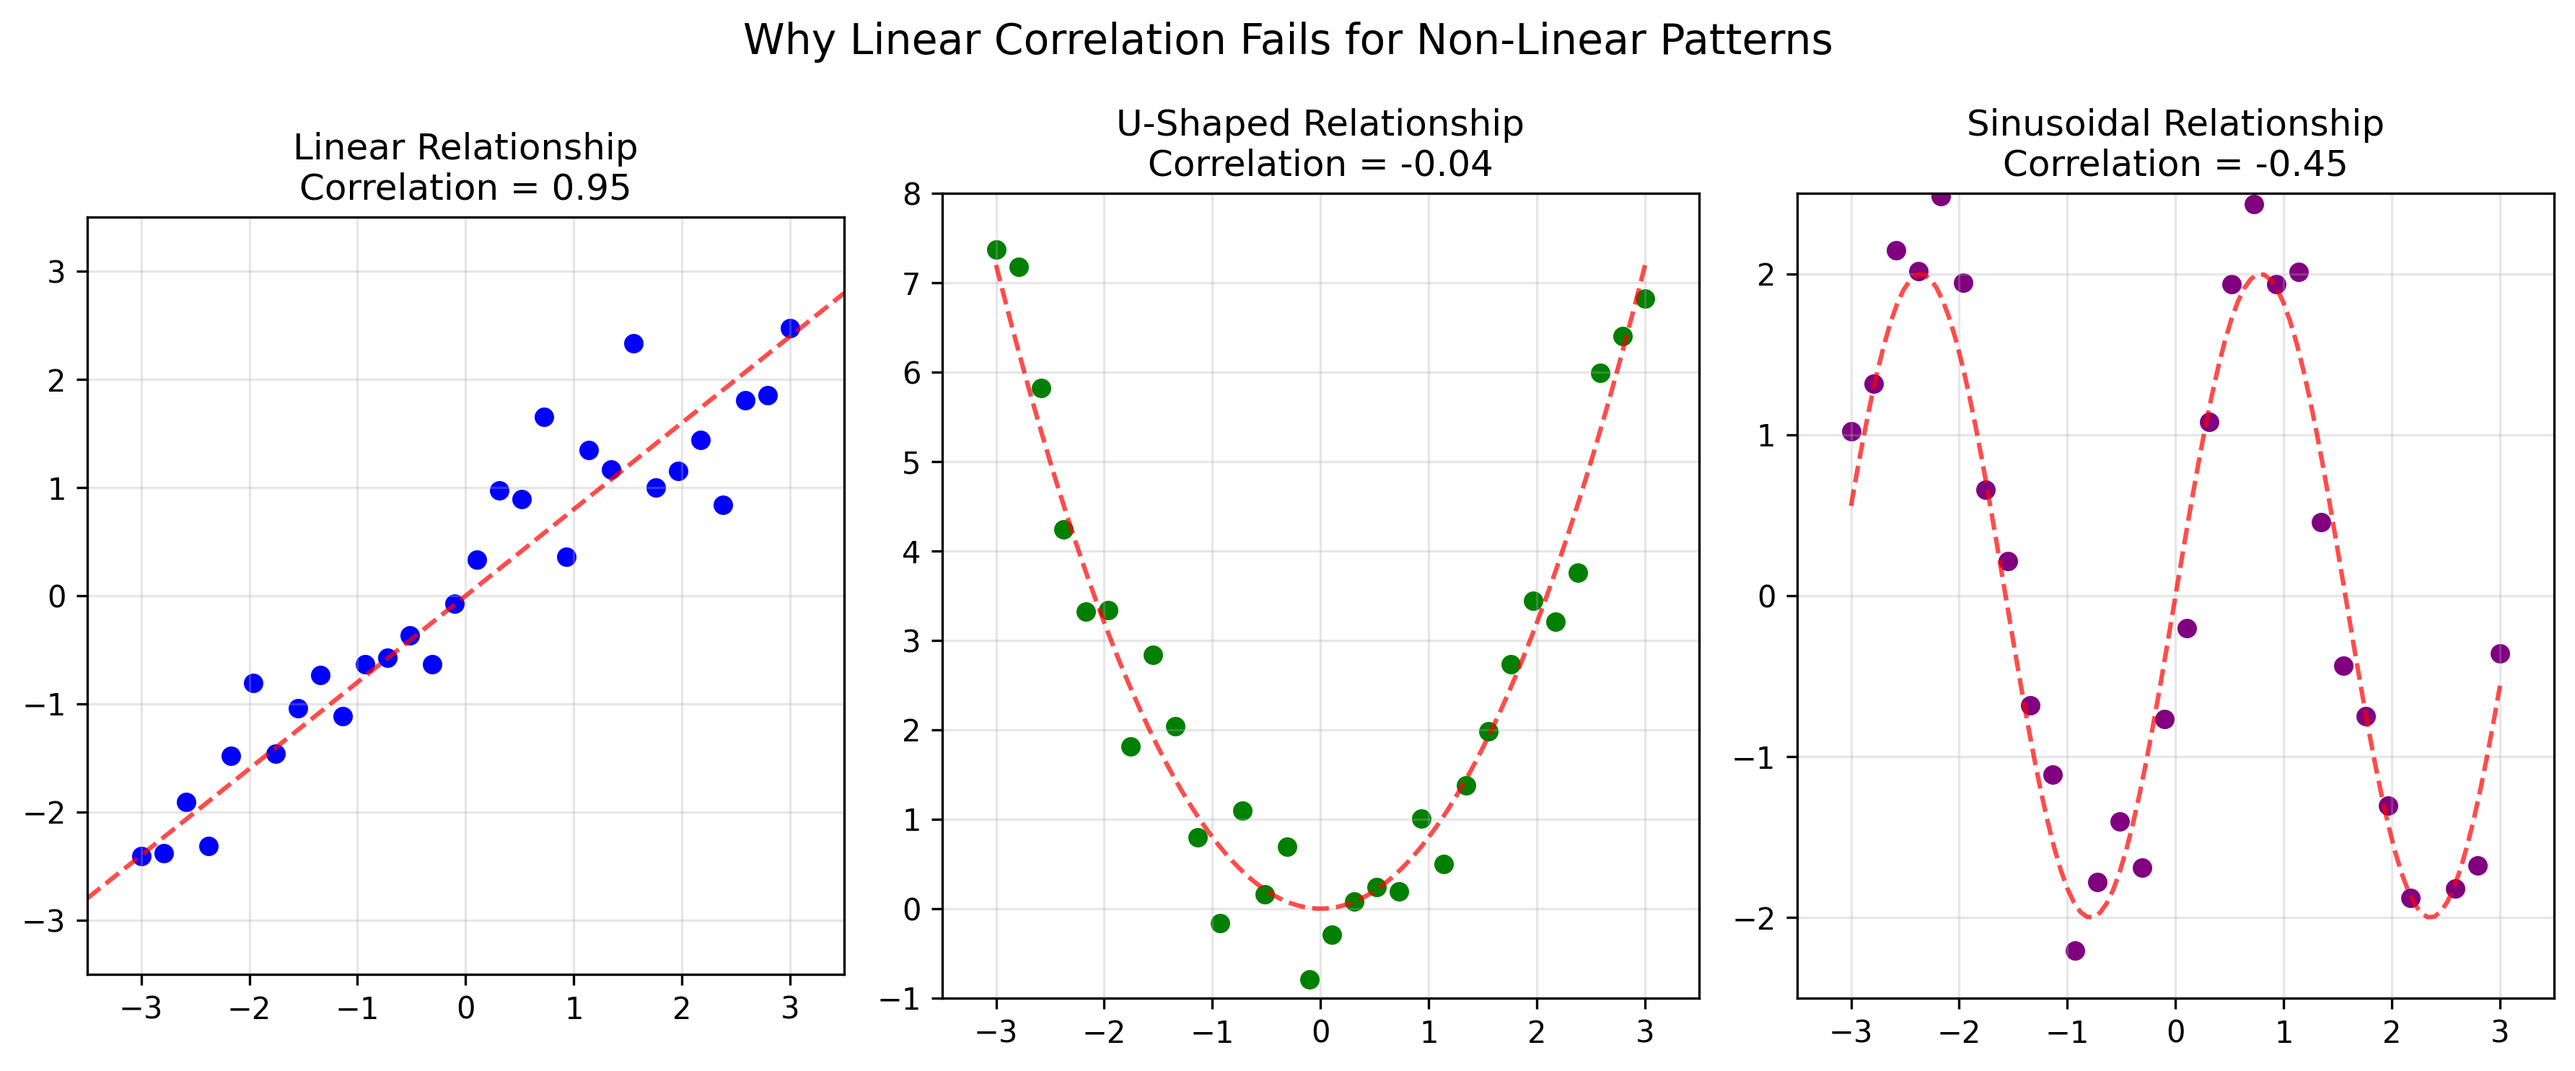
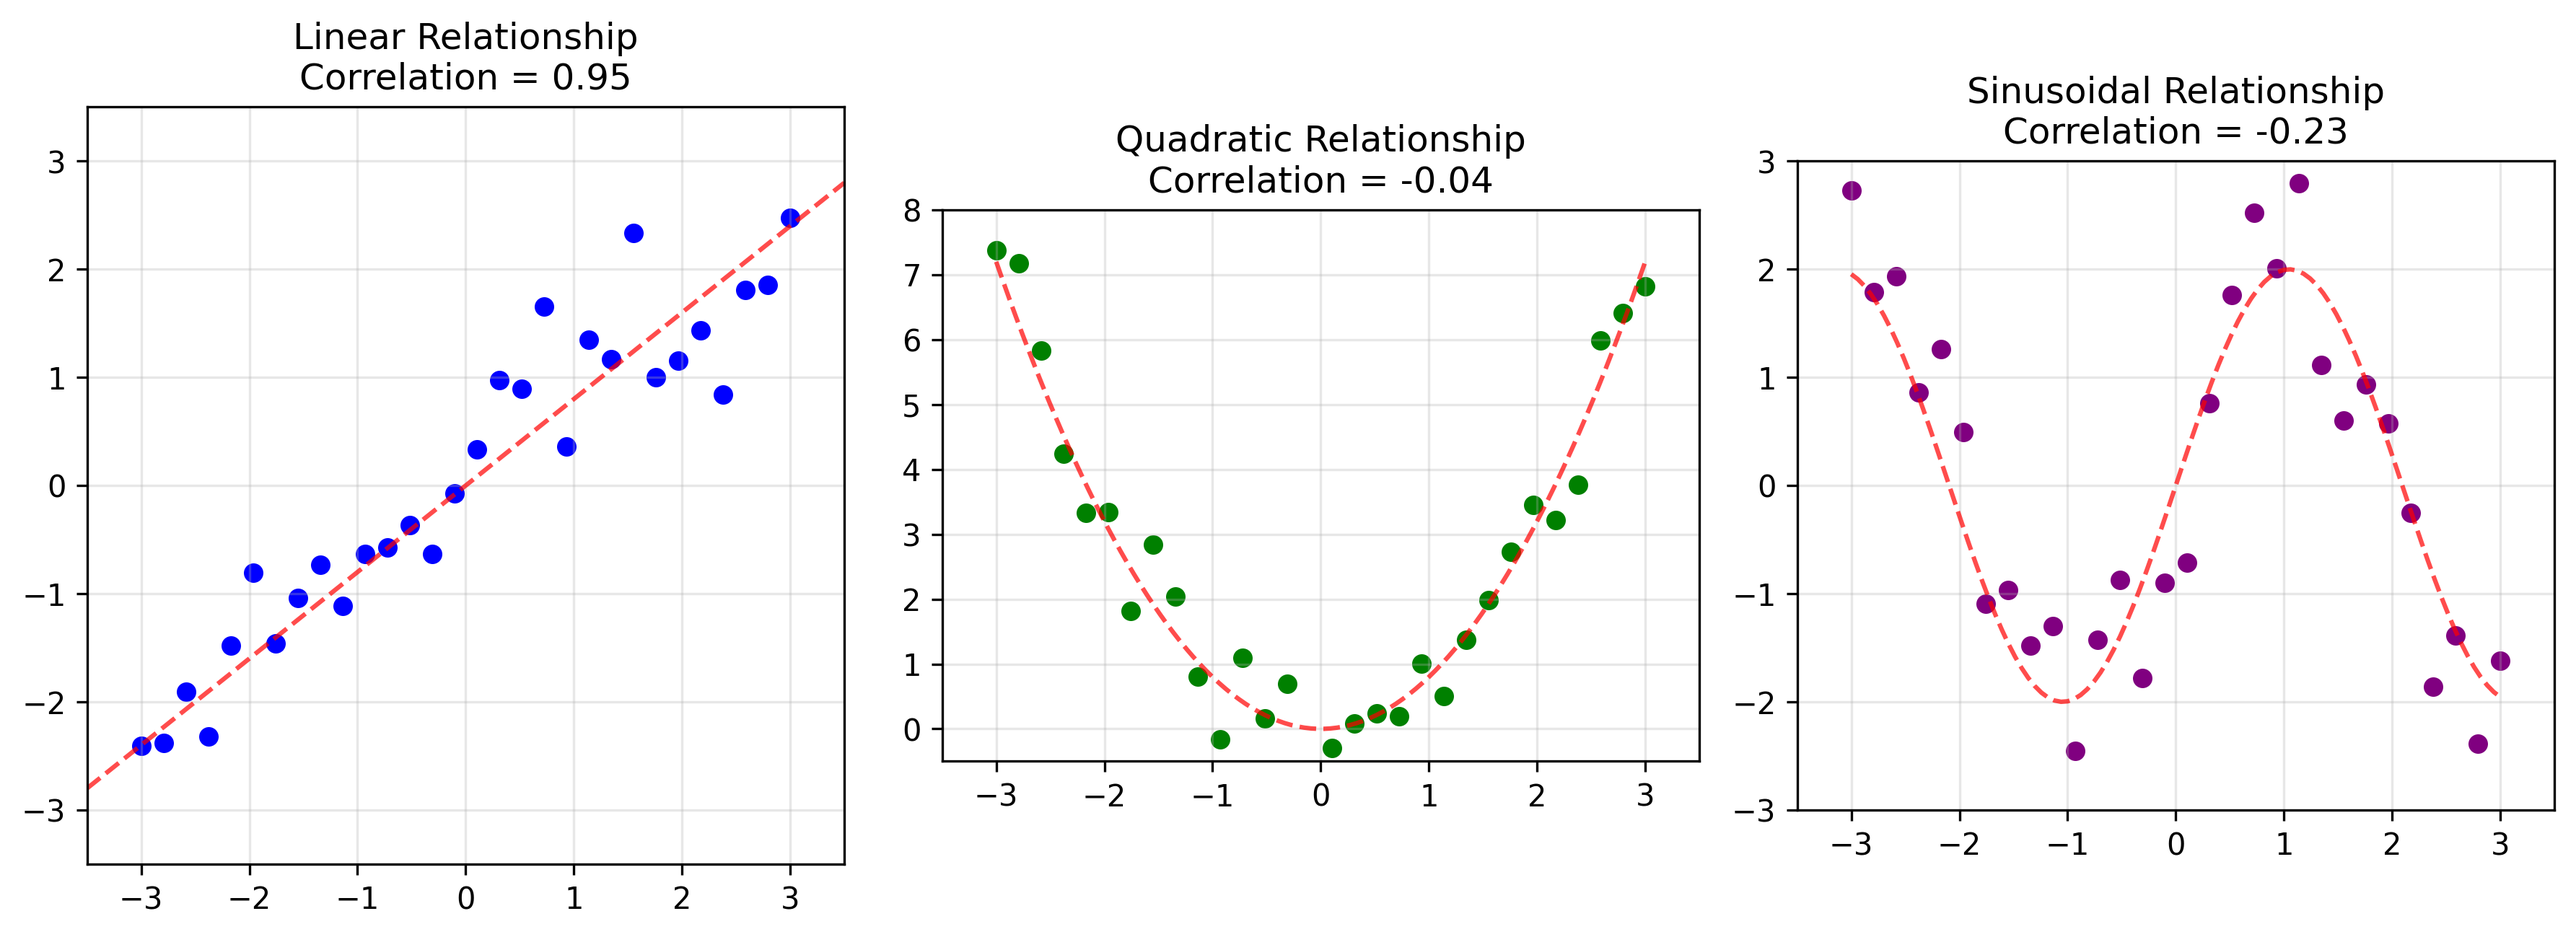
fix

diff --git a/ML_Obsidian_Vault/Lectures/2/Codes/L2_1_CMC_example_8_emoji_covariance.py b/ML_Obsidian_Vault/Lectures/2/Codes/L2_1_CMC_example_8_emoji_covariance.py
@@ -20,8 +20,8 @@ def emoji_covariance_example():
     
     print("\nStep 1: Creating Visual Metaphors for Correlation Patterns")
     print("We will use emoji-like faces to represent different correlation patterns:")
-    print("- Smiley face for positive correlation: variables tend to increase or decrease together")
-    print("- Sad face for negative correlation: as one variable increases, the other decreases")
+    print("- Smiley face for quadratic relationship with points following a smile curve")
+    print("- Sad face for quadratic relationship with points following a frown curve")
     
     # Create figure with two side-by-side plots
     fig, (ax1, ax2) = plt.subplots(1, 2, figsize=(15, 7))
@@ -30,12 +30,12 @@ def emoji_covariance_example():
     np.random.seed(42) # for reproducibility of noise
     noise_level = 0.2 # Adjust noise level for scatter
 
-    print("\nStep 2: Drawing the Positive Correlation (Smiley Face) Example")
-    print("Key Concepts Illustrated for Positive Correlation:")
-    print("- Variables tend to increase or decrease together")
+    print("\nStep 2: Drawing the Smiley Face Pattern Example")
+    print("Key Concepts Illustrated for the Smiley Face Pattern:")
+    print("- Points follow a U-shaped pattern (quadratic relationship)")
     print("- Data points visually follow the smiling curve")
-    print("- The covariance ellipse reflects the overall trend")
-    print("- Common in naturally related quantities (height-weight, study time-grades)")
+    print("- The covariance ellipse reflects the overall spread of data")
+    print("- This pattern has very low linear correlation because it's not a linear relationship")
     
     # Create a smiley face for the positive correlation that matches the data pattern
     theta = np.linspace(0, 2*np.pi, 100)
@@ -71,7 +71,7 @@ def emoji_covariance_example():
     corr_pos = np.corrcoef(rv_pos, rowvar=False)[0, 1]
 
     # Print detailed calculation steps for positive correlation based on generated data
-    print("\nDetailed Calculation for Positive Correlation (from generated data):")
+    print("\nDetailed Calculation for Smiley Face Pattern (from generated data):")
     print(f"Mean vector = {mean_pos}")
     print(f"Covariance Matrix = \n{cov_pos}")
     print(f"Variance of X = {cov_pos[0, 0]}")
@@ -90,7 +90,7 @@ def emoji_covariance_example():
     eigenvalues_pos, eigenvectors_pos = np.linalg.eig(cov_pos)
     
     # Print eigenvalue decomposition details
-    print("\nEigenvalue Decomposition (Positive Correlation - from data):")
+    print("\nEigenvalue Decomposition (Smiley Face Pattern - from data):")
     print(f"Eigenvalues = {eigenvalues_pos}")
     print(f"Eigenvectors = \n{eigenvectors_pos}")
     print("Interpretation: The principal axes of the data's spread")
@@ -114,7 +114,7 @@ def emoji_covariance_example():
     ax1.add_patch(ell_pos)
     
     # Set title and labels
-    ax1.set_title(f'Positive Correlation: Happy Data! 😊\nPoints follow smile (Calculated ρ = {corr_pos:.2f})')
+    ax1.set_title(f'Smiley Face Pattern\nCorrelation = {corr_pos:.2f} (Near Zero!)')
     ax1.set_xlim(-4, 4)
     ax1.set_ylim(-4, 4)
     ax1.set_aspect('equal')
@@ -122,12 +122,12 @@ def emoji_covariance_example():
     ax1.set_xlabel('x')
     ax1.set_ylabel('y')
     
-    print("\nStep 3: Drawing the Negative Correlation (Sad Face) Example")
-    print("Key Concepts Illustrated for Negative Correlation:")
-    print("- As one variable increases, the other tends to decrease")
+    print("\nStep 3: Drawing the Frowny Face Pattern Example")
+    print("Key Concepts Illustrated for the Frowny Face Pattern:")
+    print("- Points follow an inverted U-shaped pattern (quadratic relationship)")
     print("- Data points visually follow the frowning curve")
-    print("- The covariance ellipse reflects the overall trend")
-    print("- Common in trade-off relationships (speed-accuracy, price-demand)")
+    print("- The covariance ellipse reflects the overall spread of data")
+    print("- This pattern has almost zero linear correlation despite the clear pattern")
     
     # Sad mouth curve (inverted parabola-like)
     sad_mouth_x_range = np.linspace(-2, 2, 50)
@@ -150,7 +150,7 @@ def emoji_covariance_example():
     corr_neg = np.corrcoef(rv_neg, rowvar=False)[0, 1]
 
     # Print detailed calculation steps for negative correlation based on generated data
-    print("\nDetailed Calculation for Negative Correlation (from generated data):")
+    print("\nDetailed Calculation for Frowny Face Pattern (from generated data):")
     print(f"Mean vector = {mean_neg}")
     print(f"Covariance Matrix = \n{cov_neg}")
     print(f"Variance of X = {cov_neg[0, 0]}")
@@ -169,7 +169,7 @@ def emoji_covariance_example():
     eigenvalues_neg, eigenvectors_neg = np.linalg.eig(cov_neg)
     
     # Print eigenvalue decomposition details
-    print("\nEigenvalue Decomposition (Negative Correlation - from data):")
+    print("\nEigenvalue Decomposition (Frowny Face Pattern - from data):")
     print(f"Eigenvalues = {eigenvalues_neg}")
     print(f"Eigenvectors = \n{eigenvectors_neg}")
     print("Interpretation: The principal axes of the data's spread")
@@ -192,7 +192,7 @@ def emoji_covariance_example():
     ax2.add_patch(ell_neg)
     
     # Set title and labels
-    ax2.set_title(f'Negative Correlation: Sad Data! 😢\nPoints follow frown (Calculated ρ = {corr_neg:.2f})')
+    ax2.set_title(f'Frowny Face Pattern\nCorrelation = {corr_neg:.2f} (Almost Zero!)')
     ax2.set_xlim(-4, 4)
     ax2.set_ylim(-4, 4)
     ax2.set_aspect('equal')
@@ -204,7 +204,7 @@ def emoji_covariance_example():
     print("The smiley/sad faces provide an intuitive memory aid:")
     print("- Smile curves upward ⌣, data points follow this shape, showing a general trend where y decreases then increases as x changes.")
     print("- Frown curves downward ⌢, data points follow this shape, showing a trend where y increases then decreases as x changes.")
-    print("- Note: The *linear* correlation coefficient (ρ) might be low here because the relationship isn't purely linear, but the visual pattern is clear.")
+    print("- Note: The *linear* correlation coefficient (ρ) is near zero in both cases because the relationships aren't linear, but the visual patterns are clear.")
 
     plt.tight_layout()
     
@@ -249,45 +249,48 @@ def emoji_covariance_example():
     corr_quad = np.corrcoef(x_quad, y_quad)[0, 1]
     
     ax2.scatter(x_quad, y_quad, color='green', s=30)
-    x_curve = np.linspace(-3, 3, 100)
-    y_curve = 0.8 * x_curve**2
-    ax2.plot(x_curve, y_curve, 'r--', alpha=0.7)
+    xx = np.linspace(-3, 3, 100)
+    ax2.plot(xx, 0.8 * xx**2, 'r--', alpha=0.7)
     ax2.set_xlim(-3.5, 3.5)
-    ax2.set_ylim(-1, 8)
+    ax2.set_ylim(-0.5, 8)
+    ax2.set_aspect(0.6)
     ax2.grid(True, alpha=0.3)
-    ax2.set_title(f'U-Shaped Relationship\nCorrelation = {corr_quad:.2f}')
+    ax2.set_title(f'Quadratic Relationship\nCorrelation = {corr_quad:.2f}')
     
-    # Right panel - Sinusoidal scatter plot (wave)
+    # Right panel - Sinusoidal scatter plot
     ax3 = fig_explanation.add_subplot(133)
     
     # Generate sinusoidal pattern
     x_sin = np.linspace(-3, 3, 30)
-    y_sin = np.sin(x_sin * 2) * 2 + np.random.normal(0, 0.3, len(x_sin))
+    y_sin = 2 * np.sin(x_sin * 1.5) + np.random.normal(0, 0.5, len(x_sin))
     corr_sin = np.corrcoef(x_sin, y_sin)[0, 1]
     
     ax3.scatter(x_sin, y_sin, color='purple', s=30)
-    x_curve = np.linspace(-3, 3, 100)
-    y_curve = np.sin(x_curve * 2) * 2
-    ax3.plot(x_curve, y_curve, 'r--', alpha=0.7)
+    xx = np.linspace(-3, 3, 100)
+    ax3.plot(xx, 2 * np.sin(xx * 1.5), 'r--', alpha=0.7)
     ax3.set_xlim(-3.5, 3.5)
-    ax3.set_ylim(-2.5, 2.5)
+    ax3.set_ylim(-3, 3)
+    ax3.set_aspect('equal')
     ax3.grid(True, alpha=0.3)
     ax3.set_title(f'Sinusoidal Relationship\nCorrelation = {corr_sin:.2f}')
     
-    plt.suptitle('Why Linear Correlation Fails for Non-Linear Patterns', fontsize=14)
     plt.tight_layout()
     
-    # Save the figure
-    explanation_path = os.path.join(images_dir, "ex8_linear_vs_nonlinear_explanation.png")
-    fig_explanation.savefig(explanation_path, dpi=300, bbox_inches='tight')
-    print(f"Educational explanation about linear vs non-linear correlation saved to: {explanation_path}")
-    
-    return fig
+    # Save the educational figure
+    try:
+        explanation_path = os.path.join(images_dir, "ex8_linear_vs_nonlinear_explanation.png")
+        fig_explanation.savefig(explanation_path, bbox_inches='tight', dpi=300)
+        print(f"Educational explanation about linear vs non-linear correlation saved to: {explanation_path}")
+    except Exception as e:
+        print(f"\nError saving educational figure: {e}")
+        
+    # Print summary message
+    print("\nEXAMPLE: EMOJI VISUALIZATION OF CORRELATION")
+    print("\nKey Insights:")
+    print("1. The linear correlation coefficient is near zero for both emoji patterns despite clear visual relationships")
+    print("2. This demonstrates a limitation of linear correlation for capturing non-linear patterns")
+    print("3. Always visualize your data - plotting can reveal patterns that correlation coefficients miss")
+    print("4. Consider applying non-linear correlation measures for curved relationships")
 
 if __name__ == "__main__":
-    print("\n\n" + "*"*80)
-    print("EXAMPLE: EMOJI VISUALIZATION OF CORRELATION")
-    print("*"*80)
-    
-    # Run the example with detailed step-by-step printing
-    fig = emoji_covariance_example()
+    emoji_covariance_example()
